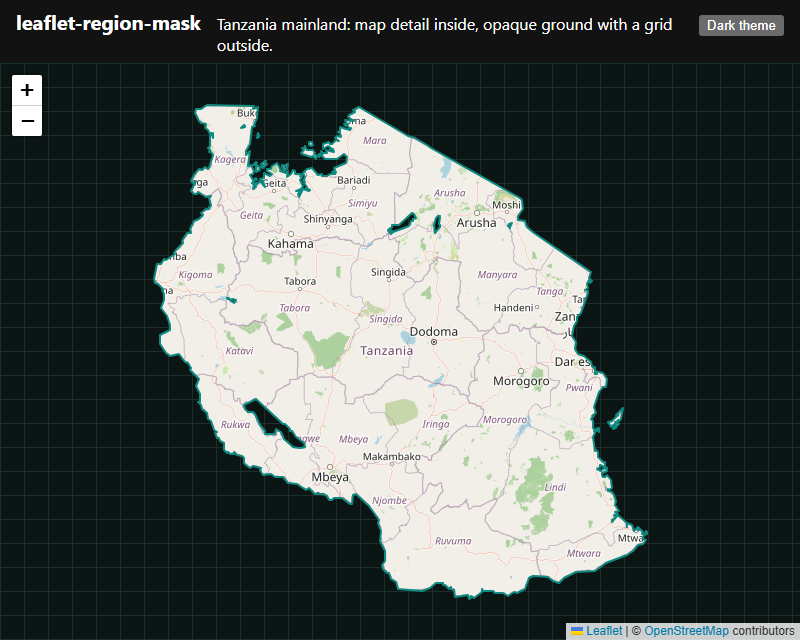
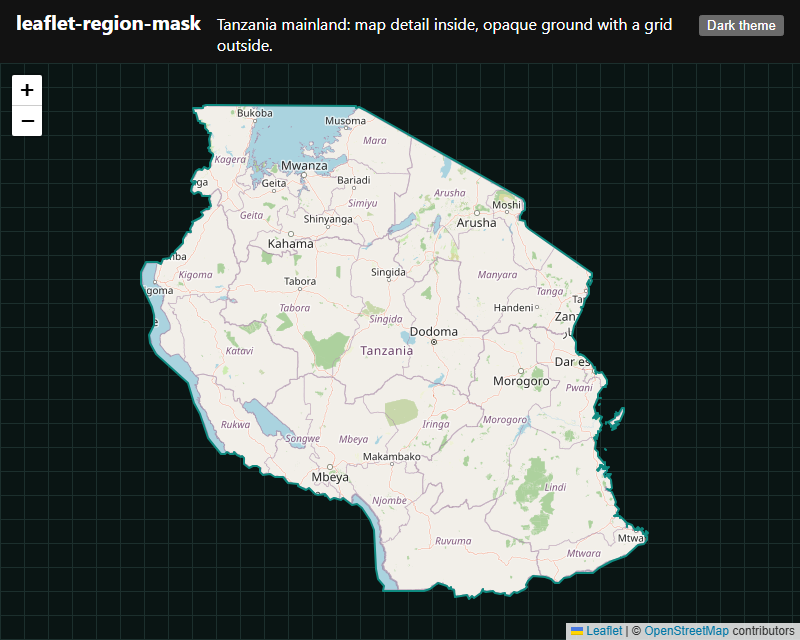
Update README outline note and demo screenshots

diff --git a/README.md b/README.md
@@ -123,7 +123,8 @@ npx playwright install chromium && npm run test:e2e   # pixel test on the demo, 
 npm run demo                                          # http://localhost:5180
 ```
 
-The demo uses a Tanzania mainland outline (`demo/tz-mainland.geojson`). Map tiles in the screenshots:
+The demo uses a Tanzania mainland outline (`demo/tz-mainland.geojson`): the national boundary with the Tanzanian
+waters of Lakes Victoria, Tanganyika and Nyasa (median line), unioned with the NBS mainland wards. Map tiles in the screenshots:
 © OpenStreetMap contributors.
 
 ## License
